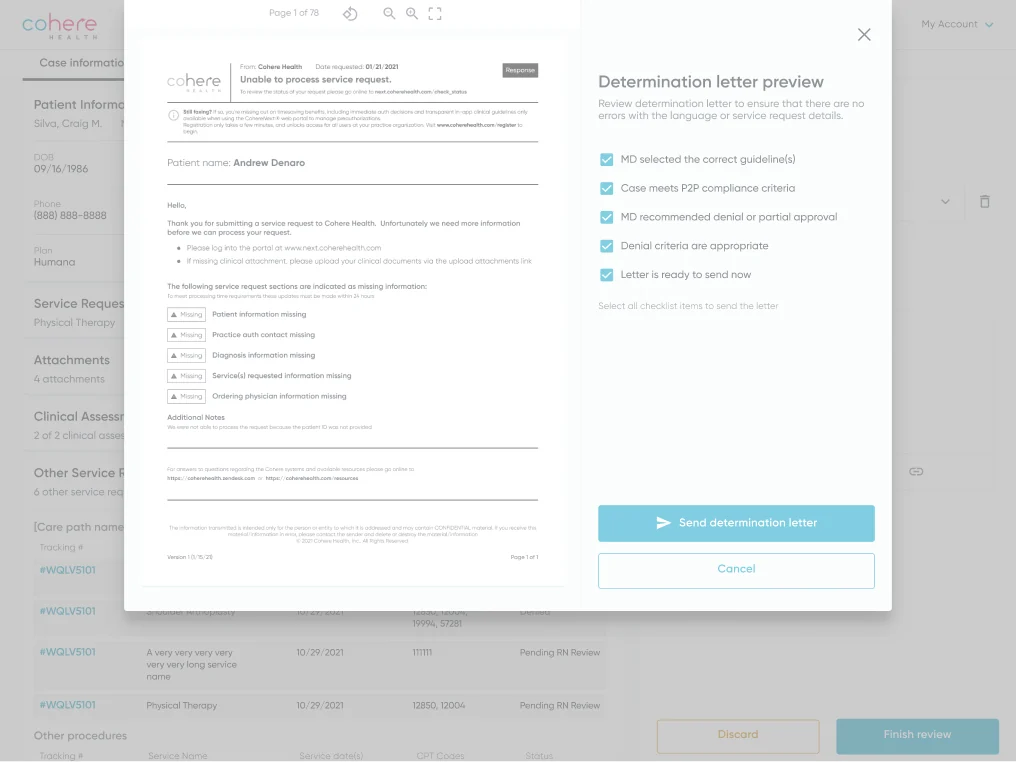
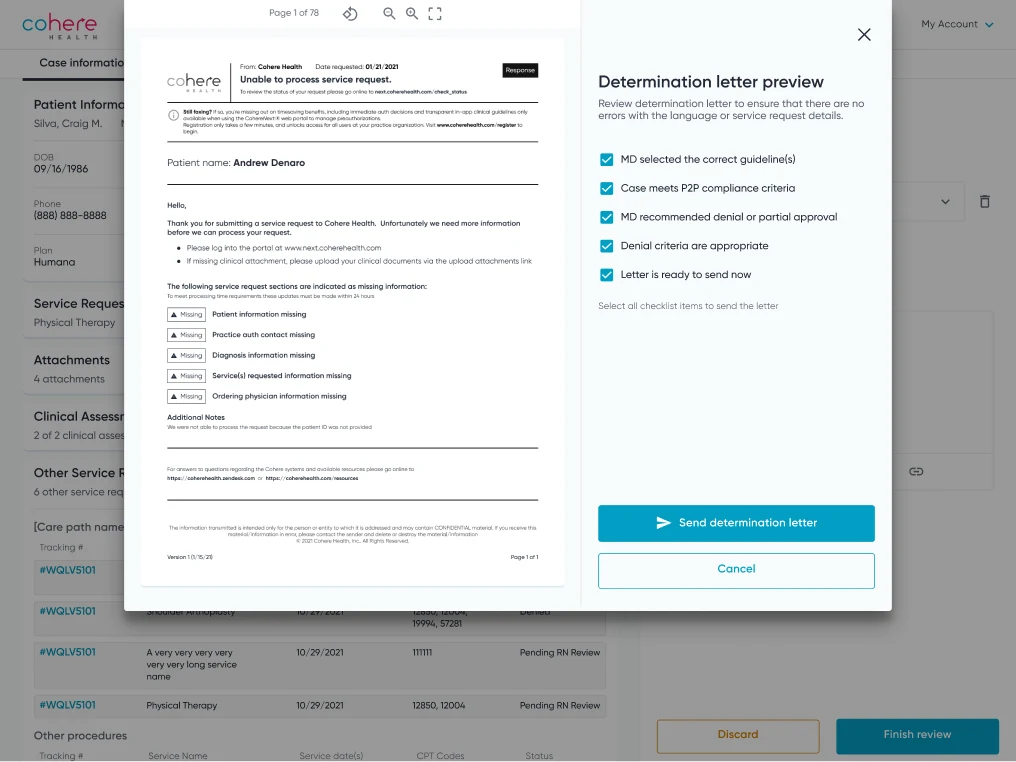
Replace memes with the slide 6 workflow diagram; MVP reasons as bullets
Swap the TikTok strip in section 01 for the three-workflow diagram from
slide 6 (all stages equal), turn the three fax-first reasons into a plain
bullet list, and use the new un-dimmed clinical review and letter writing
mockups. Remove the unused meme images and styles.

diff --git a/case-qm.html b/case-qm.html
@@ -56,14 +56,25 @@
             </div>
           </div>
         </div>
-        <figure class="cs-figure cs-memes">
-          <div class="cs-meme-row">
-            <img src="images/qm/v2/pa-meme-1.jpg" data-full="images/qm/v2/pa-meme-1-full.jpg" alt="A woman on the phone with text reading: live footage of me on the recorded line with the insurance company doing a prior authorization">
-            <img src="images/qm/v2/pa-meme-2.jpg" data-full="images/qm/v2/pa-meme-2-full.jpg" alt="A man typing at a desk with text reading: POV, patients think prior authorization gets approved right away">
-            <img src="images/qm/v2/pa-meme-3.jpg" data-full="images/qm/v2/pa-meme-3-full.jpg" alt="A clinician with clasped hands and text reading: when patients do not realize how long a prior authorization takes">
-            <img src="images/qm/v2/pa-meme-4.jpg" data-full="images/qm/v2/pa-meme-4-full.jpg" alt="A woman at a computer with text reading: POV, you spent hours on a prior auth and it still gets denied">
+        <figure class="cs-figure cs-flow cs-flow--all">
+          <div class="cs-flow-grid">
+            <div class="cs-flow-col">
+              <span class="pill">Fax intake</span>
+              <div class="track"><i class="dot"></i></div>
+              <img src="images/qm/v2/flow-fax.webp" data-full="images/qm/v2/flow-fax-full.webp" alt="Fax intake: an authorization request form beside a new service request form that is auto-filled">
+            </div>
+            <div class="cs-flow-col">
+              <span class="pill">Clinical review</span>
+              <div class="track"><i class="dot"></i></div>
+              <img src="images/qm/v2/flow-review.webp" data-full="images/qm/v2/flow-review-full.webp" alt="Clinical review: a case with patient information and an MD review panel">
+            </div>
+            <div class="cs-flow-col">
+              <span class="pill">Denial letter writing</span>
+              <div class="track"><i class="dot"></i></div>
+              <img src="images/qm/v2/flow-denial.webp" data-full="images/qm/v2/flow-denial-full.webp" alt="Denial letter writing: a determination letter preview over a case">
+            </div>
           </div>
-          <figcaption class="cs-caption">Prior auth, as told by those who do it. Credit: TikTok &ldquo;Prior authorization humor.&rdquo;</figcaption>
+          <figcaption class="cs-caption">Fax intake, clinical review, and denial letter writing.</figcaption>
         </figure>
       </div>
     </section>
@@ -145,6 +156,11 @@
           <h3 class="cs-heading" style="font-size: 20px;">Starting with fax intake</h3>
           <div class="cs-body">
             <p>The key takeaway from the onsite was that fax is where we should start as an MVP, for three reasons:</p>
+            <ul>
+              <li>Simple assignment logic</li>
+              <li>Easy prioritization</li>
+              <li>Most licenses saved (150+)</li>
+            </ul>
           </div>
         </div>
         <figure class="cs-figure cs-flow">
@@ -167,23 +183,6 @@
           </div>
           <figcaption class="cs-caption">Three workflows, with fax intake first.</figcaption>
         </figure>
-        <div class="cs-pains cs-pains--3">
-          <div class="cs-pain">
-            <svg class="ic" viewBox="0 0 24 24" fill="none" stroke="currentColor" stroke-width="1.6" stroke-linecap="round" stroke-linejoin="round" aria-hidden="true"><circle cx="6" cy="6" r="2"/><circle cx="18" cy="18" r="2"/><path d="M6 8v4a4 4 0 0 0 4 4h6"/></svg>
-            <h3>Simple assignment logic</h3>
-            <p>The most straightforward rules for deciding who works what</p>
-          </div>
-          <div class="cs-pain">
-            <svg class="ic" viewBox="0 0 24 24" fill="none" stroke="currentColor" stroke-width="1.6" stroke-linecap="round" stroke-linejoin="round" aria-hidden="true"><path d="M4 6h16M4 12h11M4 18h6"/></svg>
-            <h3>Easy prioritization</h3>
-            <p>Clear criteria for which fax to work first</p>
-          </div>
-          <div class="cs-pain">
-            <svg class="ic" viewBox="0 0 24 24" fill="none" stroke="currentColor" stroke-width="1.6" stroke-linecap="round" stroke-linejoin="round" aria-hidden="true"><circle cx="8" cy="15" r="3.5"/><path d="M10.5 12.5L20 3M16 7l3 3"/></svg>
-            <h3>Most licenses saved</h3>
-            <p>150+ licenses saved, more than any other workflow</p>
-          </div>
-        </div>
       </div>
     </section>
 

diff --git a/style.css b/style.css
@@ -941,21 +941,6 @@ body.case-v2 { --rule: #3A4256; }
   line-height: 1.55;
   color: var(--ink);
 }
-.cs-meme-row {
-  display: flex;
-  flex-wrap: wrap;
-  justify-content: center;
-  gap: 16px;
-}
-.cs-meme-row img {
-  flex: 0 1 236px;
-  width: 236px;
-  min-width: 0;
-  max-width: calc(50% - 8px);
-  height: auto;
-  border-radius: 14px;
-}
-.cs-memes .cs-caption { text-align: center; margin-left: auto; margin-right: auto; }
 
 .cs-pains {
   display: grid;
@@ -998,14 +983,6 @@ body.case-v2 { --rule: #3A4256; }
 @media (max-width: 560px) {
   .cs-pains { grid-template-columns: minmax(0, 1fr); }
 }
-.cs-pains--3 { grid-template-columns: repeat(3, minmax(0, 1fr)); }
-@media (max-width: 1100px) {
-  .cs-pains--3 { grid-template-columns: repeat(3, minmax(0, 1fr)); }
-}
-@media (max-width: 820px) {
-  .cs-pains--3 { grid-template-columns: minmax(0, 1fr); }
-}
-
 .cs-flow-grid {
   display: grid;
   grid-template-columns: repeat(3, minmax(0, 1fr));
@@ -1130,3 +1107,9 @@ html.lb-lock { overflow: hidden; }
   text-align: center;
   color: var(--ink);
 }
+
+.cs-flow--all .cs-flow-col .pill {
+  background: var(--accent-warm);
+  color: #0B0F19;
+}
+.cs-flow--all .cs-flow-col:not(.is-active) img { opacity: 1; }
